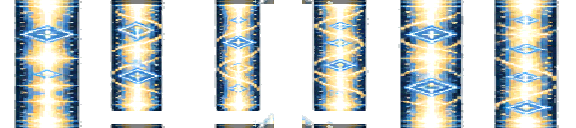
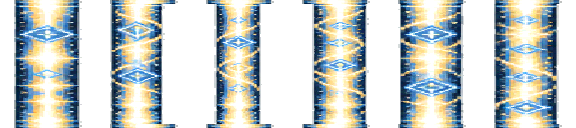
Fix hazard tiling and quake impact timing

diff --git a/reports/codex-art-17/README.md b/reports/codex-art-17/README.md
@@ -98,3 +98,53 @@
 - 원본 분석 보조: `probe_source.gd`
 
 `.git`이 쓰기 불가인 환경이므로 커밋 대신 [`commit.ps1`](commit.ps1)을 준비했습니다. 이 스크립트는 카드 허용 경로만 stage하고 커밋합니다.
+
+## Round 2
+
+### 완료
+
+리드의 인게임 캡처에서 프레임이 바뀔 때마다 약 12 px 높이의 투명 단절이 반복되는 것을 확인하고, 기존 외형을 유지한 채 `light_beam_mid.png`와 `fire_pillar_mid.png`의 잘린 하단 행만 복구했습니다. `quake_impact.png`의 4번 프레임은 의도적인 2차 폭발로 볼 시각적 근거가 없고 첫 발생 프레임에 더 가까워, 기존 그림을 다시 그리지 않고 `4 → 1 → 3 → 2 → 5 → 6` 순서로 재배열했습니다.
+
+### 변경 파일과 통합 값
+
+| 파일 | 크기 / 프레임 | 앵커·재생 | Round 2 변경 |
+|---|---:|---|---|
+| `assets/art/hazards/light_beam_mid.png` | 576×128, 96×128 × 6 | 셀 좌상단 기준, 세로 반복, 10 fps loop | 모든 프레임 128행을 채우고 여섯 프레임의 상·하단 4행을 동일하게 맞춤 |
+| `assets/art/hazards/fire_pillar_mid.png` | 576×128, 96×128 × 6 | 셀 좌상단 기준, 세로 반복, 12 fps loop | 같은 방식으로 하단 결손 복구 및 공통 경계 4행 적용 |
+| `assets/art/hazards/quake_impact.png` | 768×64, 128×64 × 6 | 하단 중앙 `(64,63)`, 12 fps one-shot | 기존 6장을 `old4, old1, old3, old2, old5, old6` 순으로 재배열 |
+
+base/top 파일과 fallback 파일은 수정하지 않았으며, 제품 코드와 기존 테스트도 수정하지 않았습니다.
+
+### 측정 결과
+
+원본과 수정본의 전체 수치는 [`round2-verification.txt`](round2-verification.txt)에 기록했습니다.
+
+- 광선 원본: 프레임별 빈 행 `0 / 13 / 2 / 4 / 0 / 0`, 1/3 미만 채움 행 `0 / 13 / 13 / 13 / 0 / 0`.
+- 불기둥 원본: 빈 행 `0 / 12 / 2 / 6 / 7 / 0`, 1/3 미만 채움 행 `0 / 13 / 13 / 13 / 13 / 0`.
+- 수정 후 두 시트 모두 여섯 프레임 전부 `empty=0`, `under_1_3=0`.
+- 수정 후 최소 채움 폭은 광선 `66 / 51 / 44 / 52 / 63 / 63 px`, 불기둥 `67 / 51 / 51 / 46 / 53 / 62 px`입니다.
+- 여섯 프레임 전체의 상·하단 4행 교차 비교 불일치 수는 두 시트 모두 `0`입니다.
+- 충격 프레임 점유 픽셀은 재배열 후 `981 → 1696 → 1867 → 2568 → 1986 → 2607`입니다. 마지막 프레임은 낮고 넓게 퍼지는 잔류 먼지라 점유 픽셀 수는 크지만, 실루엣 높이와 중심 폭발 강도는 정점 이후 낮아집니다.
+
+### 육안 확인
+
+- 리드 캡처 `hazard_01_active.png`, `hazard_05_active.png`를 원본 크기로 확인했습니다. 광선과 불기둥 모두 짧은 프레임이 반복되는 구간에 검은 가로 공백이 분명히 보였습니다.
+- [`round2_tile_sequence_2x.png`](round2_tile_sequence_2x.png)는 왼쪽 광선, 오른쪽 불기둥을 `1,2,3,4,5,6,6,1` 순으로 세로 연결한 2배 확대본입니다. 모든 연결부에 투명 공백이 없음을 직접 확인했습니다. 가장자리의 짧은 금색 눈금은 프레임 번호 표시이며 아트에는 포함되지 않습니다.
+- [`round2_mid_before_after_2x.png`](round2_mid_before_after_2x.png)는 각 효과별 위 행이 수정 전, 아래 행이 수정 후입니다. 광선 2~4번과 불기둥 2~5번 프레임의 잘린 하단이 기존 내부 텍스처의 16행 주기를 이어받아 채워졌으며, 멀쩡했던 내부 픽셀은 유지했습니다.
+- [`round2_quake_before_after_2x.png`](round2_quake_before_after_2x.png)는 위가 수정 전, 아래가 수정 후입니다. 수정 후에는 작은 발화에서 중형·대형 폭발로 커진 뒤 넓은 잔류 먼지로 이어집니다.
+
+### 검증
+
+`round2_fix.gd`를 Godot 4.7 headless로 실행해 `ART17_ROUND2_OK`를 확인했습니다. 실행 로그는 [`round2-godot.log`](round2-godot.log)에 보존했습니다. 로그의 인증서 저장소 오류 한 줄은 카드에 명시된 샌드박스 잡음이며, 그 외 parse/runtime/error 줄은 없습니다.
+
+재실행 스크립트는 원본을 `round2_before_*.png`에 한 번만 보존하고 항상 그 원본에서 결정적으로 다시 빌드하므로, 반복 실행해도 보정이 누적되지 않습니다.
+최종 PNG 3개, 검증 PNG 3개, 수치 파일을 연속 두 번 빌드해 SHA-256을 비교했으며 7개 모두 일치했습니다.
+
+### 리드 통합 메모와 사람이 판단할 부분
+
+1. 파일 크기, 프레임 수, 셀 크기, fps, 앵커는 기존 통합 값을 그대로 사용하면 됩니다. 코드 변경은 필요하지 않습니다.
+2. 실제 게임에서 1080 px 광선과 690 px 불기둥을 각각 최소 한 주기 재생해, 공통 4행 경계가 배경 dim과 움직임 속도에서 과도한 가로 마디처럼 보이지 않는지 사람이 최종 판단해야 합니다.
+3. 지진 충격은 이제 2차 폭발이 아니라 단일 burst-and-settle입니다. 마지막 두 프레임의 넓은 먼지 실루엣이 플랫폼 폭에 적절한지 인게임에서 판단해야 합니다.
+4. 이 유닛은 제품 소스 쓰기가 금지되어 있어 리드의 통합 장면을 다시 캡처하지 못했습니다.
+
+`.git` 쓰기가 허용되지 않아 Round 2 전용 [`commit-round2.ps1`](commit-round2.ps1)을 준비했습니다.
